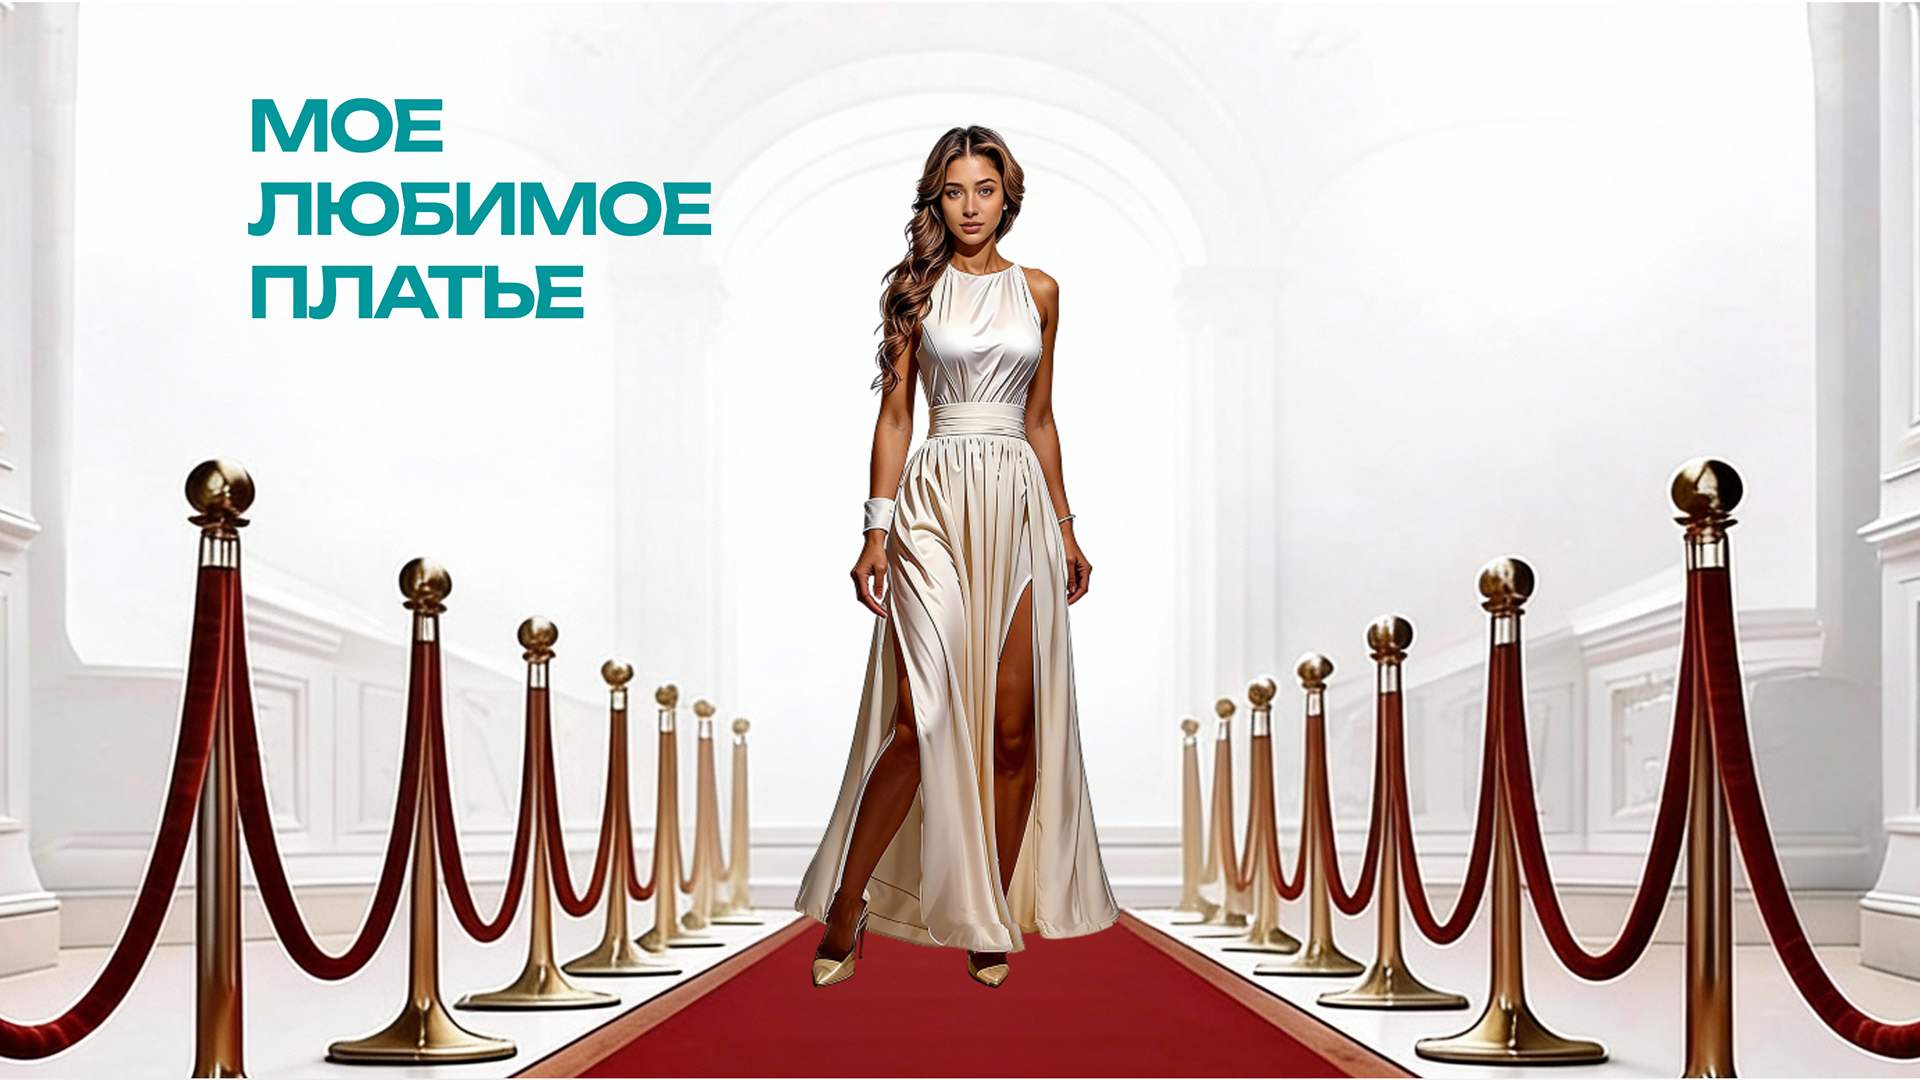
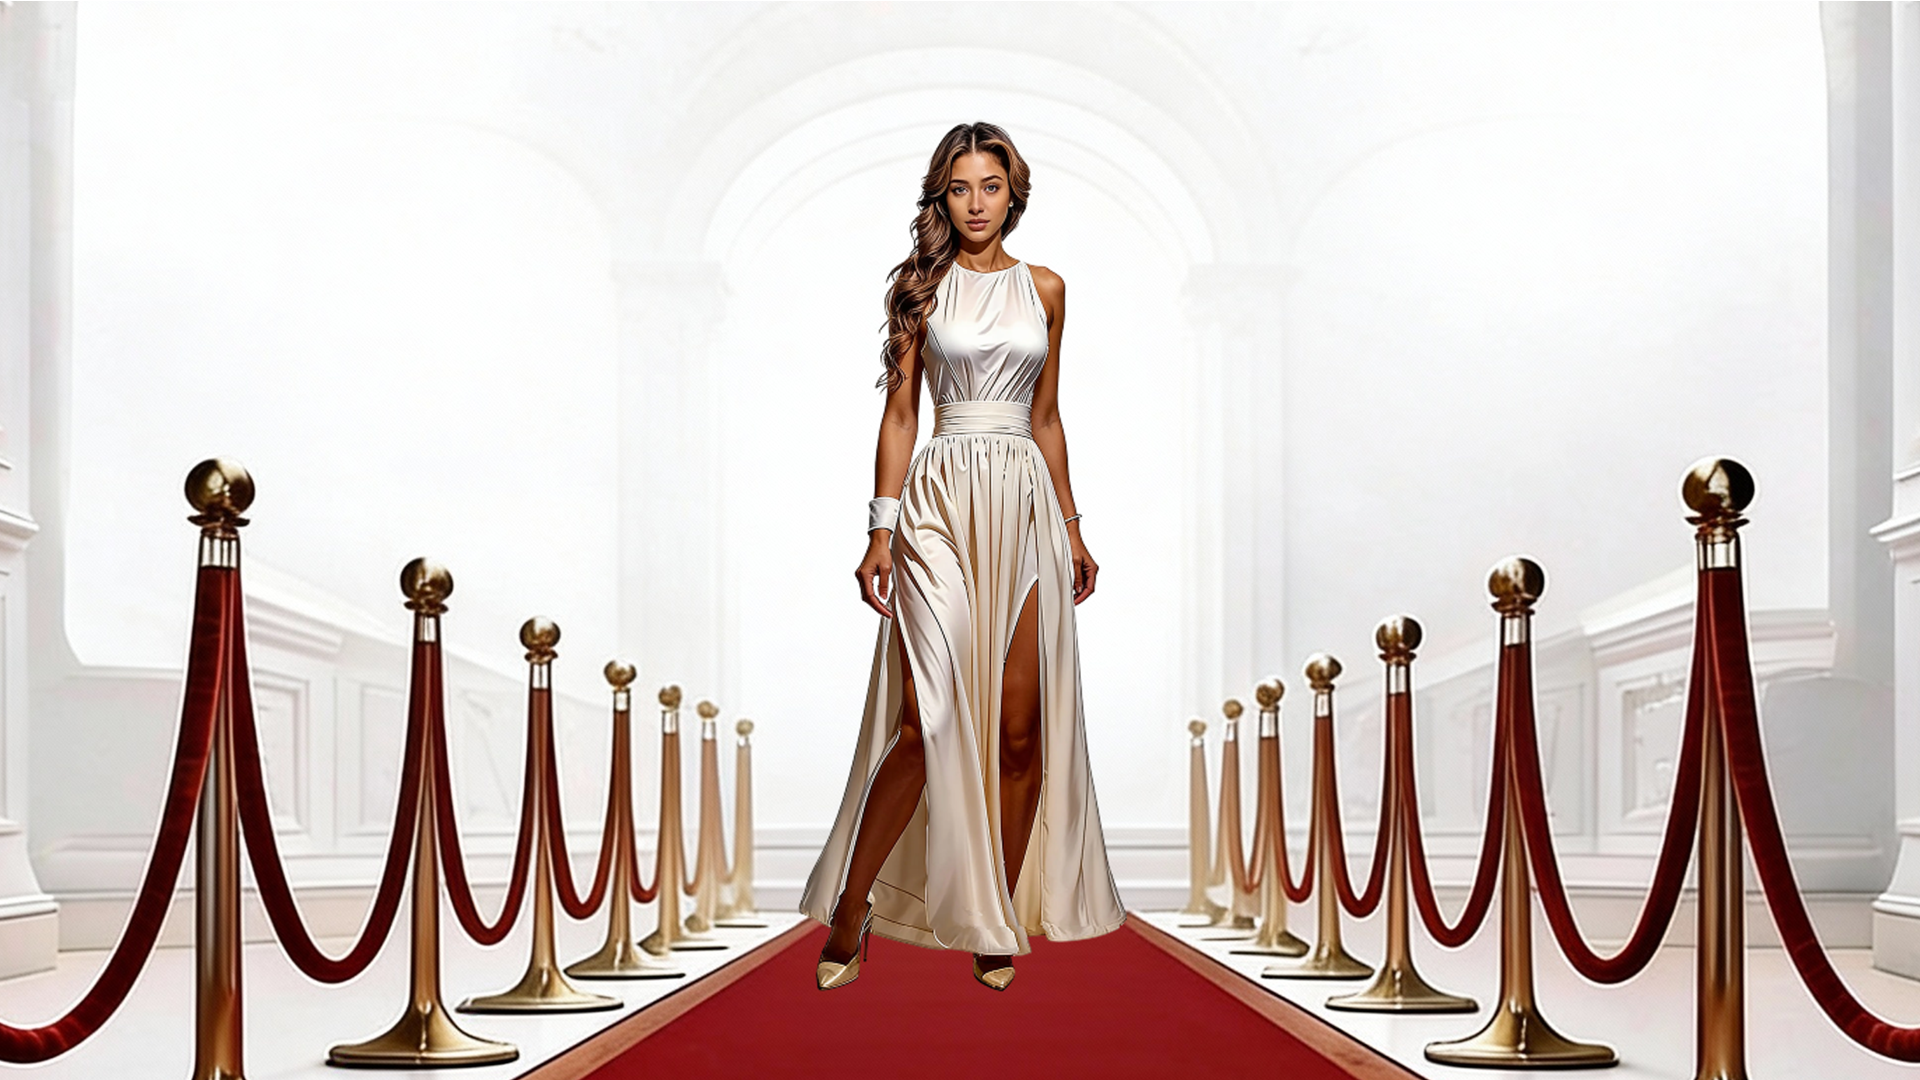
Обновить экран вопроса, тексты и изображения 24/58.
Перестроить layout вопроса, добавить ссылки на intro, уточнить тексты победы/email и заменить картинки.

diff --git a/src/app/globals.css b/src/app/globals.css
@@ -232,7 +232,7 @@ body:has(.quiz-intro-shell) {
 .quiz-intro-stats {
   display: flex;
   flex-direction: column;
-  align-items: center;
+  align-items: flex-start;
   gap: 0.4rem;
   margin-top: 16px;
   margin-bottom: 0;
@@ -509,7 +509,7 @@ body:has(.quiz-intro-shell) {
 
 .quiz-card.quiz-card--intro {
   --quiz-intro-content-gap: 18px;
-  --quiz-intro-bottom-gap: 30px;
+  --quiz-intro-bottom-gap: 34px;
   --quiz-intro-button-text-gap: 20px;
   display: flex;
   width: 100%;
@@ -519,7 +519,7 @@ body:has(.quiz-intro-shell) {
   flex-direction: column;
   gap: var(--quiz-intro-content-gap);
   margin: 0;
-  padding: 1.4rem 1.6rem var(--quiz-intro-bottom-gap);
+  padding: 1.5rem 1.6rem var(--quiz-intro-bottom-gap);
   border-radius: 1rem;
   overflow: hidden;
   box-shadow: 0 16px 40px rgba(0, 0, 0, 0.18);
@@ -527,8 +527,9 @@ body:has(.quiz-intro-shell) {
 
 @media (min-width: 640px) {
   .quiz-card.quiz-card--intro {
-    --quiz-intro-content-gap: 28px;
-    padding: 2.25rem 2.6rem var(--quiz-intro-bottom-gap);
+    --quiz-intro-content-gap: 26px;
+    --quiz-intro-bottom-gap: 38px;
+    padding: 2.4rem 2.6rem var(--quiz-intro-bottom-gap);
     border-radius: 16px;
   }
 }
@@ -593,6 +594,24 @@ body:has(.quiz-intro-shell) {
 .quiz-card.quiz-card--intro .quiz-intro-rules {
   margin-bottom: 0;
   padding: 12px 14px;
+}
+
+.quiz-intro-sources {
+  margin: 0;
+  font-size: 0.875rem;
+  line-height: 1.55;
+  color: var(--color-brand-dark, #1a2b3c);
+}
+
+.quiz-intro-sources a {
+  color: #3f2183;
+  font-weight: 600;
+  text-decoration: underline;
+  text-underline-offset: 2px;
+}
+
+.quiz-intro-sources a:hover {
+  color: #2f1766;
 }
 
 .quiz-intro-rules__title {
@@ -1194,7 +1213,7 @@ body:has(.quiz-intro-shell) {
 }
 
 .quiz-question-panel__context {
-  margin: 0 0 4px;
+  margin: 0;
   color: #1a2332;
   font-size: 1.04rem;
   font-weight: 400;
@@ -1219,22 +1238,44 @@ body:has(.quiz-intro-shell) {
   }
 }
 
-/* Картинки вопросов: крупный размер + скругление + выравнивание по номеру */
+/* Верх блока: текст слева, изображение справа */
+.quiz-question-panel__top {
+  display: flex;
+  flex-direction: column;
+  align-items: stretch;
+  gap: 0.85rem;
+  width: 100%;
+}
+
+.quiz-question-panel__copy {
+  display: flex;
+  flex: 1 1 auto;
+  order: 2;
+  min-width: 0;
+  flex-direction: column;
+  gap: 0.55rem;
+}
+
+/* Картинка: половинный размер, без обрезки, со скруглением */
 .quiz-question-panel__media {
   display: flex;
+  flex: 0 0 auto;
   align-items: center;
   justify-content: center;
-  width: 100%;
-  height: min(520px, 48vh);
-  margin: 0 auto;
+  order: 1;
+  align-self: center;
+  /* Мобильные: ~20px до левого и правого края белой карточки (padding 16px) */
+  width: calc(100% + 32px - 40px);
+  max-width: none;
+  height: auto;
+  margin-left: 4px;
+  margin-right: 4px;
   padding: 0;
   border: 0;
-  border-radius: 20px;
+  border-radius: 16px;
   background: transparent;
   overflow: hidden;
   line-height: 0;
-  clip-path: inset(0 round 20px);
-  -webkit-clip-path: inset(0 round 20px);
 }
 
 .quiz-question-panel__media img,
@@ -1242,12 +1283,12 @@ body:has(.quiz-intro-shell) {
   display: block;
   width: 100%;
   max-width: 100%;
-  height: 100%;
-  margin: 0 auto;
+  height: auto;
+  margin: 0;
   border: 0;
-  border-radius: 20px;
+  border-radius: 16px;
   background: transparent;
-  object-fit: cover;
+  object-fit: contain;
   object-position: center;
 }
 
@@ -1264,6 +1305,52 @@ body:has(.quiz-intro-shell) {
 .quiz-question-panel__media--align-bottom img,
 .quiz-question-panel__media--align-bottom .quiz-question-panel__image {
   object-position: bottom;
+}
+
+@media (min-width: 640px) {
+  .quiz-question-panel__top {
+    flex-direction: row;
+    align-items: flex-start;
+    gap: 1.1rem;
+  }
+
+  .quiz-question-panel__copy {
+    order: 0;
+  }
+
+  .quiz-question-panel__media {
+    order: 0;
+    align-self: flex-start;
+    width: min(46%, 360px);
+    margin-left: 0;
+    margin-right: 0;
+    border-radius: 18px;
+  }
+
+  .quiz-question-panel__media img,
+  .quiz-question-panel__image {
+    border-radius: 18px;
+  }
+
+  .quiz-question-panel__top--no-media .quiz-question-panel__copy {
+    max-width: 100%;
+  }
+}
+
+@media (min-width: 1024px) {
+  .quiz-question-panel__top {
+    gap: 1.35rem;
+  }
+
+  .quiz-question-panel__media {
+    width: min(42%, 420px);
+    border-radius: 20px;
+  }
+
+  .quiz-question-panel__media img,
+  .quiz-question-panel__image {
+    border-radius: 20px;
+  }
 }
 
 /* Превью выравнивания картинок (/preview-images) — стопка как экран викторины */
@@ -1296,26 +1383,6 @@ body:has(.quiz-intro-shell) {
   padding-top: 0;
   padding-bottom: 0;
   overflow: visible;
-}
-
-@media (min-width: 768px) {
-  .quiz-question-panel__media {
-    height: min(640px, 52vh);
-    border-radius: 20px;
-    clip-path: inset(0 round 20px);
-    -webkit-clip-path: inset(0 round 20px);
-  }
-
-  .quiz-question-panel__media img,
-  .quiz-question-panel__image {
-    border-radius: 20px;
-  }
-}
-
-@media (min-width: 1024px) {
-  .quiz-question-panel__media {
-    height: min(720px, 56vh);
-  }
 }
 
 .quiz-image-lightbox {
@@ -1373,7 +1440,7 @@ body:has(.quiz-intro-shell) {
   flex: 0 0 auto;
   flex-direction: column;
   gap: 0.85rem;
-  margin-top: 12px;
+  margin-top: 0.15rem;
   padding: 1rem 1.1rem;
   overflow: visible;
   border-radius: 1.25rem;
@@ -1384,14 +1451,14 @@ body:has(.quiz-intro-shell) {
 @media (min-width: 768px) {
   .quiz-question-panel__box {
     gap: 1rem;
-    margin-top: 14px;
+    margin-top: 0.25rem;
     padding: 1.15rem 1.25rem;
   }
 }
 
 @media (min-width: 1024px) {
   .quiz-question-panel__box {
-    margin-top: 16px;
+    margin-top: 0.35rem;
   }
 }
 
@@ -1561,6 +1628,16 @@ body:has(.quiz-intro-shell) {
   gap: 0.75rem;
   margin-top: 0.85rem;
   margin-bottom: 0;
+}
+
+@media (max-width: 639px) {
+  .quiz-question-actions__next {
+    order: 1;
+  }
+
+  .quiz-question-actions__prev {
+    order: 2;
+  }
 }
 
 @media (min-width: 640px) {

diff --git a/src/app/quiz/[sessionId]/page.tsx b/src/app/quiz/[sessionId]/page.tsx
@@ -242,24 +242,30 @@ export default function QuizPage() {
             className={`quiz-question-card${isWideQuestion ? " quiz-question-card--wide" : ""} ${cardAnimClass}`}
           >
             <div className="quiz-card quiz-question-panel rounded-2xl shadow-xl">
-              {questionImage ? (
-                <div className={`quiz-question-panel__media ${imageAlignClass}`}>
-                  {/* eslint-disable-next-line @next/next/no-img-element */}
-                  <img
-                    src={questionImage}
-                    alt=""
-                    className="quiz-question-panel__image"
-                  />
+              <div
+                className={`quiz-question-panel__top${questionImage ? "" : " quiz-question-panel__top--no-media"}`}
+              >
+                <div className="quiz-question-panel__copy">
+                  <p className="quiz-question-card__title">
+                    {currentIndex + 1} / {TOTAL_QUESTIONS}
+                  </p>
+
+                  {contextText ? (
+                    <p className="quiz-question-panel__context">{contextText}</p>
+                  ) : null}
                 </div>
-              ) : null}
 
-              <p className="quiz-question-card__title">
-                Вопрос {currentIndex + 1} / {TOTAL_QUESTIONS}
-              </p>
-
-              {contextText ? (
-                <p className="quiz-question-panel__context">{contextText}</p>
-              ) : null}
+                {questionImage ? (
+                  <div className={`quiz-question-panel__media ${imageAlignClass}`}>
+                    {/* eslint-disable-next-line @next/next/no-img-element */}
+                    <img
+                      src={questionImage}
+                      alt=""
+                      className="quiz-question-panel__image"
+                    />
+                  </div>
+                ) : null}
+              </div>
 
               <div className="quiz-question-panel__box">
                 <p className="quiz-question-panel__prompt">{promptText}</p>

diff --git a/src/app/quiz/page.tsx b/src/app/quiz/page.tsx
@@ -145,6 +145,50 @@ export default function QuizIntroPage() {
                 </ul>
               </div>
 
+              <p className="quiz-intro-sources">
+                Ответы вы сможете найти на{" "}
+                <a
+                  href="https://hrm.geropharm.com/root/pages/home"
+                  target="_blank"
+                  rel="noopener noreferrer"
+                >
+                  корпоративном портале «Сфера»
+                </a>
+                , в каналах{" "}
+                <a
+                  href="https://t.me/+B2t0aUPUuJNlYTY6"
+                  target="_blank"
+                  rel="noopener noreferrer"
+                >
+                  ГЕРОФАРМ LIFE в телеграм
+                </a>{" "}
+                и{" "}
+                <a
+                  href="https://max.ru/join/d-gd069xb3KizIdnYoydwqaBFBRk5kmEGGfmVGK5YMc"
+                  target="_blank"
+                  rel="noopener noreferrer"
+                >
+                  MAX
+                </a>{" "}
+                и в официальных телеграм-аккаунтах{" "}
+                <a
+                  href="http://t.me/geropharm_dialog"
+                  target="_blank"
+                  rel="noopener noreferrer"
+                >
+                  ГЕРОФАРМ
+                </a>{" "}
+                и{" "}
+                <a
+                  href="http://t.me/GEROPHARM_official"
+                  target="_blank"
+                  rel="noopener noreferrer"
+                >
+                  «Путь к стройности с ГЕРОФАРМ»
+                </a>
+                .
+              </p>
+
               {!loading && availability && !availability.available && (
                 <div className="rounded-xl bg-brand-accent/10 p-3 text-center text-sm text-brand-accent-dark">
                   {availability.message}

diff --git a/src/components/ResultsCelebration.tsx b/src/components/ResultsCelebration.tsx
@@ -70,10 +70,11 @@ export function PerfectResultCard({
       </div>
 
       <p className="results-celebration-text">
-        Списки победителей будут опубликованы после 15 сентября. Организаторы
-        свяжутся и расскажут, как получить подарок. Напоминаем, что сотрудник
-        может получить только 1 подарок, вне зависимости от количества
-        выигранных викторин.
+        Первые 500 сотрудников, ответивших верно, получат подарки! Списки
+        победителей будут опубликованы после 15 сентября. Организаторы свяжутся
+        и расскажут, как получить подарок. Напоминаем, что сотрудник может
+        получить только 1 подарок, вне зависимости от количества выигранных
+        викторин.
       </p>
 
       <Link href="/" className="results-home-btn">

diff --git a/src/app/start/page.tsx b/src/app/start/page.tsx
@@ -175,7 +175,7 @@ export default function StartPage() {
                 type="email"
                 value={email}
                 onChange={(e) => setEmail(e.target.value)}
-                placeholder="ivanov@geropharm.com"
+                placeholder="ivan.ivanov@geropharm.com"
                 className="quiz-input"
                 autoComplete="email"
               />
